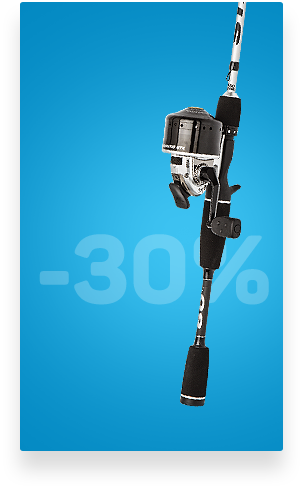
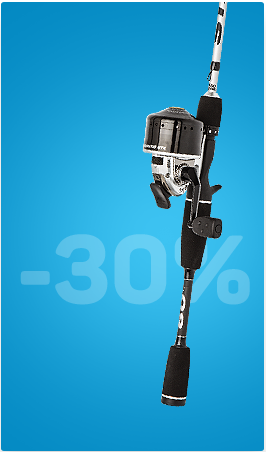
Fix

diff --git a/css/style.css b/css/style.css
@@ -448,10 +448,13 @@ Top header
 /*New items block*/
 
 .bestseller{
-    padding: 52px 38px;
+    padding: 33px 38px;
     background-position: center;
     background-size: cover;
     background-repeat: no-repeat;
+    -webkit-box-shadow: 2px 51px 34px -16px rgba(0,0,0,0.47);
+    -moz-box-shadow: 2px 51px 34px -16px rgba(0,0,0,0.47);
+    box-shadow: -3px 12px 25px -16px rgba(0,0,0,0.47);
 }
 
 .bestseller__title h3{
